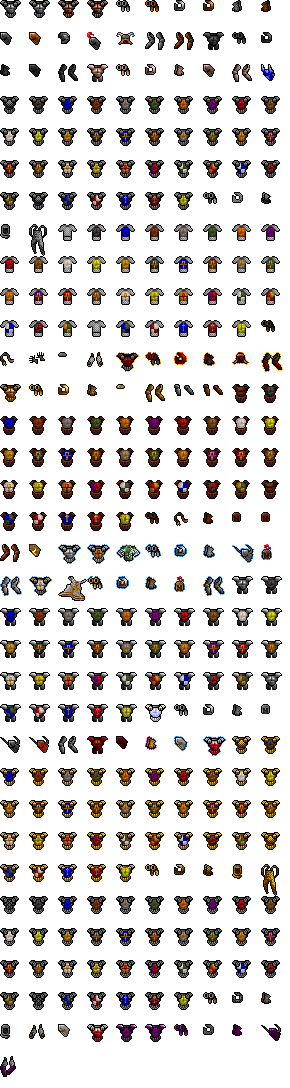
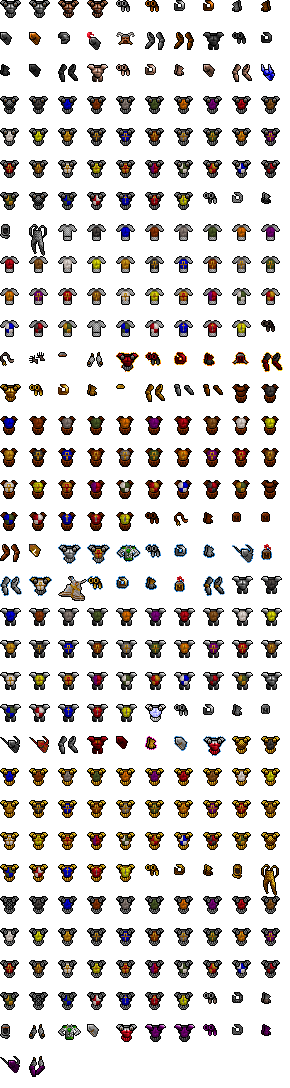
Gallery update
Updated gallery with additional art.

diff --git a/index.html b/index.html
@@ -69,6 +69,9 @@
         <div class="toc-column">
             <h3><a href="#gumps">Gumps</a></h3>
         </div>
+        <div class="toc-column">
+            <h3><a href="#bodies">Bodies</a></h3>
+        </div>
     </div>
 </div>
 
@@ -201,6 +204,11 @@
 
 <h3 id=></h3>
 <div class="gallery-container"><div class="image-box"> <img src="docs\gumps.png" alt="gumps"> <a href="docs\gumps.png" target="_blank"></a></div>
+</div>
+<h2 id="bodies">Bodies</h2>
+
+<h3 id=></h3>
+<div class="gallery-container"><div class="image-box"> <img src="docs\bodies.png" alt="bodies"> <a href="docs\bodies.png" target="_blank"></a></div>
 </div>
 
 </body>

diff --git a/docs/make_page.py b/docs/make_page.py
@@ -71,6 +71,9 @@ html_header_and_style = r"""
         <div class="toc-column">
             <h3><a href="#gumps">Gumps</a></h3>
         </div>
+        <div class="toc-column">
+            <h3><a href="#bodies">Bodies</a></h3>
+        </div>
     </div>
 </div>
 
@@ -130,6 +133,7 @@ def add_gallery_container(title: str, images: list[str], html_id: str):
 images_paperdolls = list(Path(".").glob("paperdolls*png"))
 images_shapes_sprites = list(Path(".").glob("shapes*png")) + list(Path(".").glob("sprites*png"))
 gumps = Path('.') / 'gumps.png'
+bodies = Path('.') / 'bodies.png'
 
 assert all([i.exists() for i in images_paperdolls])
 assert all([i.exists() for i in images_shapes_sprites])
@@ -161,6 +165,9 @@ for image in images_shapes_sprites:
 
 html += '\n<h2 id="gumps">Gumps</h2>\n'
 html += add_gallery_container("", [create_image_box(gumps)], "")
+html += '\n<h2 id="bodies">Bodies</h2>\n'
+html += add_gallery_container("", [create_image_box(bodies)], "")
+
 html += html_footer
 
 with open("../index.html", "w") as f:

diff --git a/docs/make_svg.py b/docs/make_svg.py
@@ -28,6 +28,8 @@ FOLDERS_WEAPON_SPRITES = list(Path("../Ultima Weapons/Art/Sprites").glob("*"))
 
 FOLDER_GUMPS = Path('../Ultima Gumps/Art')
 
+FOLDER_BODIES = Path('../Ultima Bodies - Combined/Art/Paperdoll')
+
 
 def create_drawing(images_paths: list[Path], n_cols=N_COLS):
     widths = []
@@ -113,6 +115,8 @@ def main():
     for folder in FOLDERS_WEAPON_SPRITES:
         process_folder(folder, Path("sprites_" + folder.stem + ".png"), clean_svg=True)
     process_folder(FOLDER_GUMPS, Path("gumps.png"), clean_svg=True, n_cols=N_COLS_GUMPS)
+    process_folder(FOLDER_BODIES, Path("bodies.png"), clean_svg=True)
+    
 
 
 if __name__ == "__main__":
